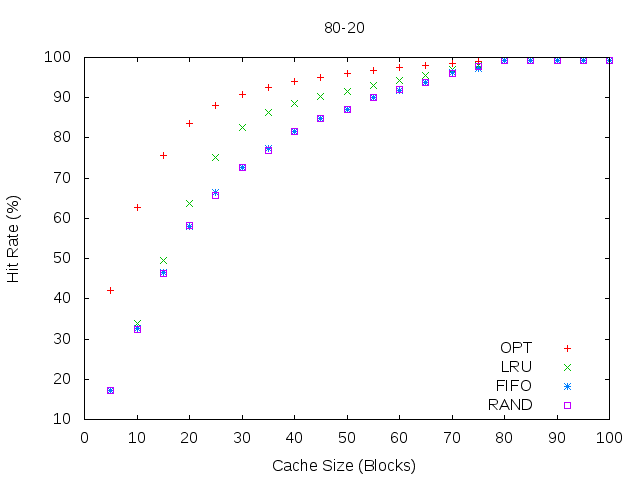
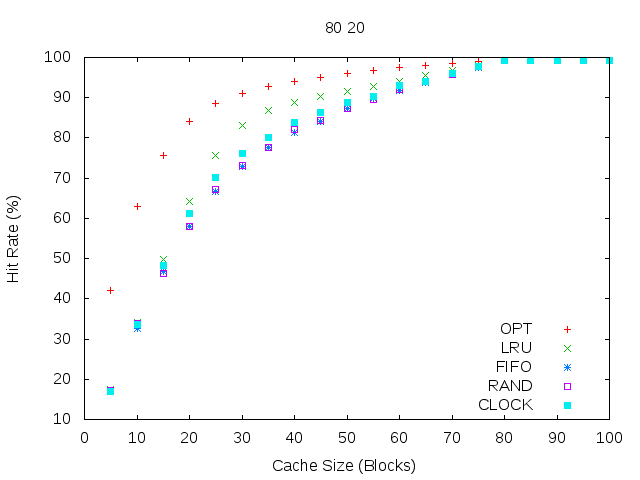
Fixed clock replacement algorithm

diff --git a/Prog4Scagnelli_escagne1/prog4pages.cpp b/Prog4Scagnelli_escagne1/prog4pages.cpp
@@ -8,6 +8,11 @@
 #define PAGE_ACCESSES 10000
 #define UNIQUE_LOOPING_PAGES 50
 
+struct clockEntry{
+    int page;
+    int usedBit;
+};
+
 //Max is inclusive
 int randomInt(int min, int max){
     return rand() % (max + 1 - min);
@@ -36,24 +41,19 @@ float optimal(int *workLoad, unsigned int memSize){
             if(!vectorContains(mem, workLoad[i])){
                 mem.push_back(workLoad[i]);
                 misses++;
-                //cout << "MISS" << endl;
             }
             else{
                 hits++;
-                //cout << "HIT" << endl;
             }
         }
         else{ //mem is full, use optimal page replacement
             if(vectorContains(mem, workLoad[i])){
                 hits++;
-                //cout << "HIT" << endl;
             }
             else{
                 int evictIndex = getOptimalEvictPage(mem, workLoad, i);                  
-                //cout << "evicting page " << mem[evictIndex] << endl;
                 mem[evictIndex] = workLoad[i];
                 misses++;
-                //cout << "MISS" << endl;
             }
         }
     }
@@ -80,15 +80,6 @@ int getOptimalEvictPage(vector<int> mem, int *workLoad, int workLoadIndex){
     return evictIndex;
 }
 
-/*
-void printMem(deque<int> mem){
-    for(int i = 0; i < mem.size(); i++){
-        cout << mem[i] << " ";
-    }
-    cout << endl;
-}
-*/
-
 float LRU(int *workLoad, unsigned int memSize){
     int hits = 0;
     int misses = 0;
@@ -99,13 +90,11 @@ float LRU(int *workLoad, unsigned int memSize){
             if(!dequeContains(mem, workLoad[i])){
                 mem.push_back(workLoad[i]);
                 misses++;
-//                cout << "MISS" << endl;
             }
             else{
                 mem.erase(find(mem.begin(),mem.end(),workLoad[i])); //Take current page in workload off deque
                 mem.push_back(workLoad[i]); //Puts the page we just accessed at the back of the deque
                 hits++;
-//                cout << "HIT" << endl;
             }
         }
         else{ //mem is full
@@ -113,18 +102,78 @@ float LRU(int *workLoad, unsigned int memSize){
                 mem.erase(find(mem.begin(),mem.end(),workLoad[i])); //Take current page in workload off deque
                 mem.push_back(workLoad[i]); //Puts the page we just accessed at the back of the deque
                 hits++;
-//                cout << "HIT" << endl;
             }
             else{
                 mem.pop_front(); //Take LRU page off deque
                 mem.push_back(workLoad[i]); 
                 misses++;
-//                cout << "MISS" << endl;
             }
         }
     }
     return (hits / (float) (hits + misses)) * 100;
 }
+
+//returns the index if the page is in memory
+//returns -1 if not in memory
+int inMemory(vector<int> mem, int page){
+    for(unsigned int i = 0; i < mem.size(); i++){
+        if(mem[i] == page)
+            return i;
+    }
+    return -1;
+}
+
+float clock(int *workLoad, unsigned int memSize){
+    int hits = 0;
+    int misses = 0;
+    vector<int> mem;
+    clockEntry pages [100];
+    unsigned int index = 0;
+
+    //Initialize all unique pages used bits to 0
+    for(int i = 0; i < 100; i++){
+        pages[i].page = i;
+        pages[i].usedBit = 0;
+    }
+
+    for(int i = 0; i < PAGE_ACCESSES; i++){
+        if(mem.size() < memSize){ //mem not yet full
+            if(!vectorContains(mem,workLoad[i])){ //page is not in mem
+                mem.push_back(workLoad[i]);
+                misses++;
+            }
+            else{
+                hits++;
+            }
+        }
+        else{ //mem is full
+            int nextPage = workLoad[i];
+            if(vectorContains(mem,nextPage)){ //page is already in mem
+                hits++;            
+            }
+            else{ //Clock alg to find replacement
+                bool pageReplaced = false;
+                while(!pageReplaced){
+                    int memIndex = inMemory(mem, pages[index].page);
+                    if(pages[index].usedBit == 0 && memIndex != -1){ //page has not been recently used and is in memory
+                        mem[memIndex] = nextPage;
+                        pageReplaced = true;
+                    }
+                    else if(pages[index].usedBit == 1)//page has been recently used
+                        pages[index].usedBit = 0;
+                    
+                    if(index + 1 == 100)
+                        index = 0;
+                    else
+                        index++;
+                }
+                misses++;
+            }
+        }
+    }
+    return (hits / (float) (hits + misses)) * 100;
+}
+
 
 
 float fifo(int *workLoad, unsigned int memSize){
@@ -137,24 +186,20 @@ float fifo(int *workLoad, unsigned int memSize){
             if(!dequeContains(fifo, workLoad[i])){
                 fifo.push_back(workLoad[i]);
                 misses++;
-//                cout << "MISS" << endl;
             }
             else{
                 hits++;
-//                cout << "HIT" << endl;
             }
         }
         else{ //fifo is full
             int nextPage = workLoad[i];
             if(dequeContains(fifo, nextPage)){
                 hits++;            
-//                cout << "HIT" << endl;
             }
             else{
                 fifo.pop_front();
                 fifo.push_back(nextPage);
                 misses++;
-//                cout << "MISS" << endl;
             }
         }
     }
@@ -172,24 +217,20 @@ float random(int *workLoad, unsigned int memSize){
             if(!vectorContains(mem, workLoad[i])){
                 mem.push_back(workLoad[i]);
                 misses++;
-//                cout << "MISS" << endl;
             }
             else{
                 hits++;
-//                cout << "HIT" << endl;
             }
         }
         else{ //fifo is full
             int nextPage = workLoad[i];
             if(vectorContains(mem, nextPage)){
                 hits++;            
-//                cout << "HIT" << endl;
             }
             else{
                 int randIndex = randomInt(0,memSize-1);
                 mem[randIndex] = nextPage;
                 misses++;
-//                cout << "MISS" << endl;
             }
         }
     }
@@ -251,19 +292,25 @@ void noLocalitySimulation(){
     for(int i = 5; i <= 100; i += 5)
         LRUResults.push_back(LRU(noLocalityWorkload, i));
 
+    vector<float> clockResults;
+    for(int i = 5; i <= 100; i += 5)
+        clockResults.push_back(clock(noLocalityWorkload, i));
+
     ofstream outFile;
     outFile.open("no-locality.csv");
+
+    if(!outFile.is_open()){
+        perror("Creating file failed.");
+        exit(EXIT_FAILURE);
+    }
+
     outFile << "#cache,OPT,LRU,FIFO,RAND,CLOCK\n";
     
     int memSize = 5;
     for(unsigned int i = 0; i < optResults.size(); i++){
-        cout << memSize << ": Opt: " << optResults[i] << "\t"
-             << "FIFO: " << fifoResults[i] << "\t"
-             << "Random: " << randomResults[i] << "\t" 
-             << "LRU: " << LRUResults[i] << endl;
         outFile << memSize << "," << optResults[i] << "," << 
             LRUResults[i] << "," << fifoResults[i] << "," <<
-            randomResults[i] << "\n";
+            randomResults[i] << "," << clockResults[i] << "\n";
         memSize += 5;
     }
 
@@ -290,20 +337,26 @@ void eighty20Simulation(){
     vector<float> LRUResults;
     for(int i = 5; i <= 100; i += 5)
         LRUResults.push_back(LRU(eighty20Workload, i));
+
+    vector<float> clockResults;
+    for(int i = 5; i <= 100; i += 5)
+        clockResults.push_back(clock(eighty20Workload, i));
     
     ofstream outFile;
     outFile.open("80-20.csv");
+
+    if(!outFile.is_open()){
+        perror("Creating file failed.");
+        exit(EXIT_FAILURE);
+    }
+
     outFile << "#cache,OPT,LRU,FIFO,RAND,CLOCK\n";
 
     int memSize = 5;
     for(unsigned int i = 0; i < optResults.size(); i++){
-        cout << memSize << ": Opt: " << optResults[i] << "\t"
-             << "FIFO: " << fifoResults[i] << "\t"
-             << "Random: " << randomResults[i] << "\t" 
-             << "LRU: " << LRUResults[i] << endl;
         outFile << memSize << "," << optResults[i] << "," << 
             LRUResults[i] << "," << fifoResults[i] << "," <<
-            randomResults[i] << "\n";
+            randomResults[i] << "," << clockResults[i] << "\n";
         memSize += 5;
     }
 
@@ -331,19 +384,25 @@ void loopingSimulation(){
     for(int i = 5; i <= 100; i += 5)
         LRUResults.push_back(LRU(loopingWorkload, i));
     
+    vector<float> clockResults;
+    for(int i = 5; i <= 100; i += 5)
+        clockResults.push_back(clock(loopingWorkload, i));
+    
     ofstream outFile;
     outFile.open("looping.csv");
+
+    if(!outFile.is_open()){
+        perror("Creating file failed.");
+        exit(EXIT_FAILURE);
+    }
+
     outFile << "#cache,OPT,LRU,FIFO,RAND,CLOCK\n";
 
     int memSize = 5;
     for(unsigned int i = 0; i < optResults.size(); i++){
-        cout << memSize << ": Opt: " << optResults[i] << "\t"
-             << "FIFO: " << fifoResults[i] << "\t"
-             << "Random: " << randomResults[i] << "\t" 
-             << "LRU: " << LRUResults[i] << endl;
         outFile << memSize << "," << optResults[i] << "," << 
             LRUResults[i] << "," << fifoResults[i] << "," <<
-            randomResults[i] << "\n";
+            randomResults[i] << "," << clockResults[i] << "\n";
         memSize += 5;
     }
 
@@ -356,14 +415,9 @@ int main(){
 
     srand((unsigned)time(0));
     
-    cout << "No Locality..." << endl;
     noLocalitySimulation();
-    cout << "\n\n80/20..." << endl;
     eighty20Simulation();
-    cout << "\n\nLooping..." << endl;
     loopingSimulation();
-
-//    int testWorkload [] = {0,1,2,0,1,3,0,3,1,2,1};
 
     return 0;
 }

diff --git a/Prog4Scagnelli_escagne1/prog4pages.hpp b/Prog4Scagnelli_escagne1/prog4pages.hpp
@@ -10,9 +10,11 @@ bool vectorContains(vector<int> mem, int page);
 float optimal(int *workLoad, unsigned int memSize);
 int getOptimalEvictPage(vector<int> mem, int *workLoad, int workLoadIndex);
 float LRU(int *workLoad, unsigned int memSize);
+int inMemory(vector<int> mem, int page);
+float clock(int *workLoad, unsigned int memSize);
 float fifo(int *workLoad, unsigned int memSize);
 float random(int *workLoad, unsigned int memSize);
-int *getNoLocalityWorkload();
+int* getNoLocalityWorkload();
 int* get80_20Workload();
 int* getLoopingWorkload();
 void noLocalitySimulation();
